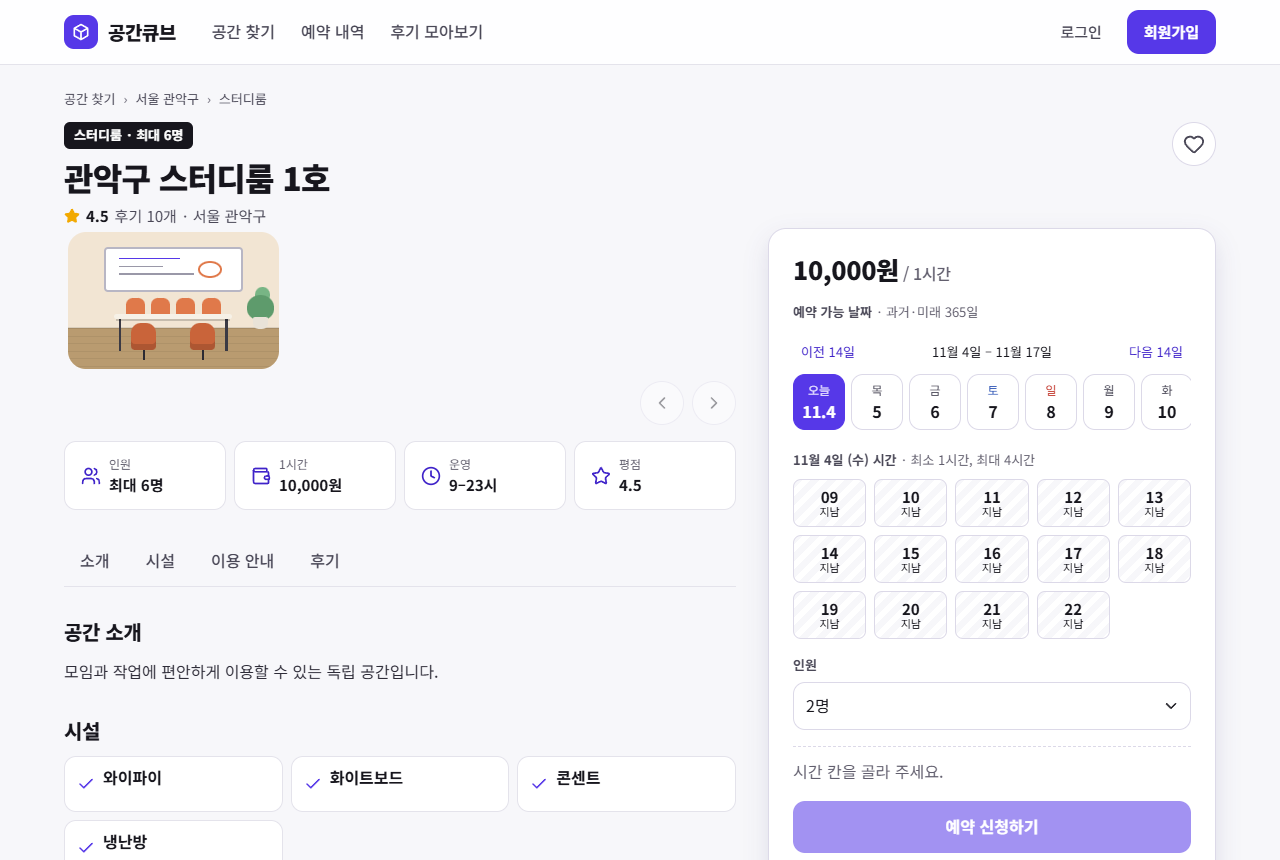
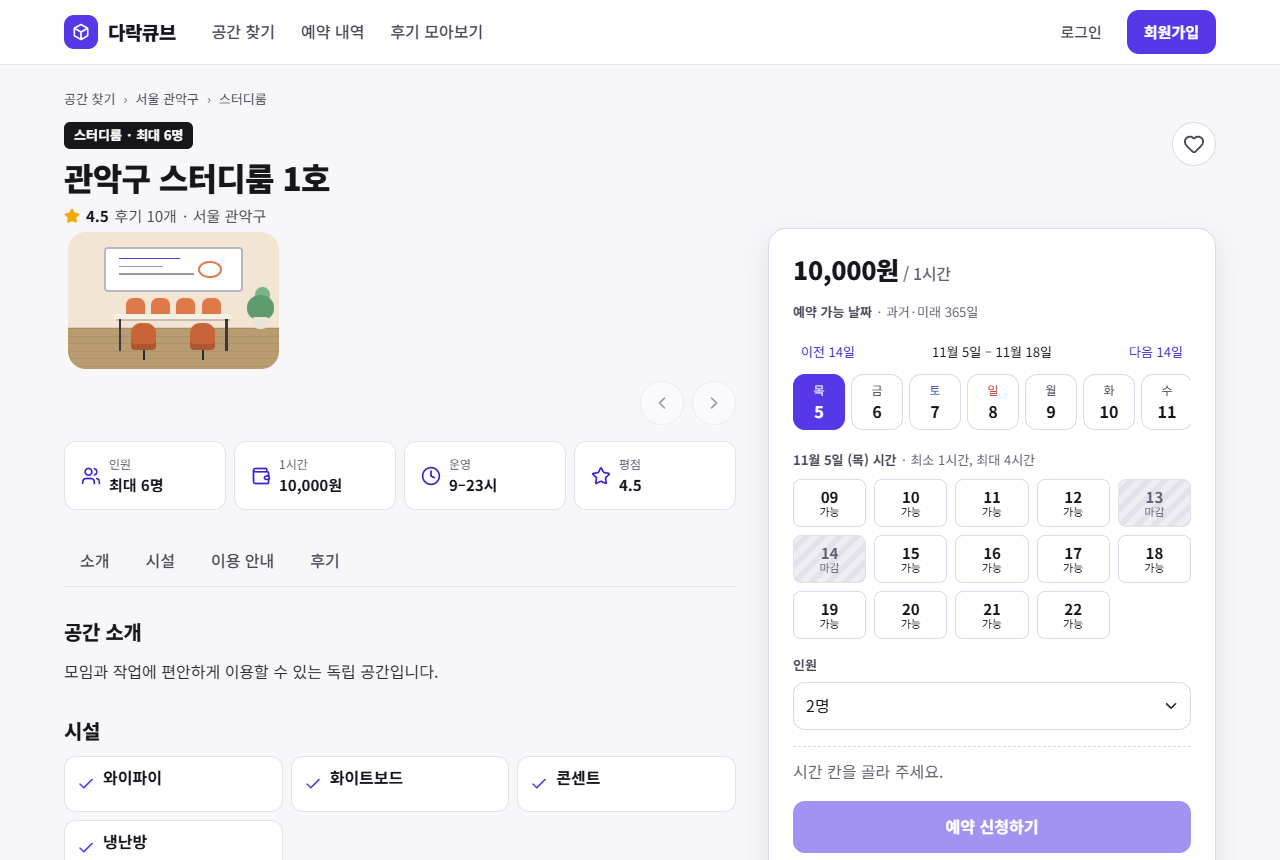
[FE] 이름 다락큐브로 통일, 공통 푸터 시안 반영
- 헤더 로고·로그인 소개·약관·페이지 제목·index.html의 '공간큐브' → '다락큐브'
- 공통 푸터: 디자인 캔버스 SiteFooter 구조(서비스 소개·서비스 바로가기·프로젝트·안내) + [SK네트웍스 Family 엔코아AI캠퍼스] 캠프 표기, 팀 방조, 저장소 링크, 발표 11-09. 색은 tokens.css만 사용
- README 시연 화면 6장 다시 찍음(공간 상세는 내일 날짜)

Refs #9, #22

diff --git a/frontend/src/components/layout/AppFooter.vue b/frontend/src/components/layout/AppFooter.vue
@@ -1,8 +1,56 @@
+<script setup>
+// 공통 푸터 (디자인 캔버스 SiteFooter 시안): 서비스 소개 · 바로가기 · 프로젝트 · 안내 + 캠프 표기
+const links = [
+  { to: '/search', label: '공간 찾기' },
+  { to: '/me', label: '예약 내역' },
+  { to: '/reviews', label: '후기 모아보기' },
+  { to: '/login', label: '로그인 · 회원가입' },
+]
+const REPO = 'https://github.com/encore-ai-campus/mlo-03-p1-team4'
+</script>
+
 <template>
   <footer class="footer">
     <div class="container footer__inner">
-      <p><strong>공간큐브</strong> (가칭) — 전국 공간을 1시간 단위로 예약</p>
-      <p class="footer__muted">화면의 공간·가격·후기는 예시 데이터예요. 결제는 모의 결제로만 동작해요.</p>
+      <div class="footer__cols">
+        <section class="footer__about" aria-label="서비스 소개">
+          <RouterLink to="/" class="footer__logo">
+            <span class="footer__mark" aria-hidden="true">
+              <svg width="18" height="18" viewBox="0 0 24 24" fill="none" stroke="currentColor" stroke-width="2" stroke-linejoin="round"><path d="M12 3l8 4.5v9L12 21l-8-4.5v-9z" /><path d="M12 12l8-4.5M12 12v9M12 12L4 7.5" /></svg>
+            </span>
+            <span class="footer__name">다락큐브</span>
+          </RouterLink>
+          <p>스터디룸 · 스튜디오 · 카페 · 강의실 · 파티룸을 전국에서 찾아 1시간 단위로 예약하는 공간대여 서비스예요.</p>
+        </section>
+
+        <nav class="footer__col" aria-label="서비스 바로가기">
+          <h2>서비스</h2>
+          <RouterLink v-for="l in links" :key="l.to" :to="l.to">{{ l.label }}</RouterLink>
+        </nav>
+
+        <section class="footer__col" aria-label="프로젝트">
+          <h2>프로젝트</h2>
+          <span>팀 방조 · 노진산 · 이자연 · 이세훈 · 전희정</span>
+          <span>역할 프론트·PM 1 · FastAPI 2 · DB 1</span>
+          <span>Vue 3 · FastAPI · MariaDB · MongoDB · AWS</span>
+          <a :href="REPO" target="_blank" rel="noopener noreferrer">GitHub 저장소</a>
+        </section>
+
+        <section class="footer__col" aria-label="안내">
+          <h2>안내</h2>
+          <span>결제는 모의 결제라 실제 돈이 나가지 않아요.</span>
+          <span>공간 정보는 공개 자료를 가공한 예시예요. 업체 실명과 사진은 쓰지 않아요.</span>
+          <span>탈퇴하면 이름 · 연락처 · 생년월일은 바로 지워져요.</span>
+        </section>
+      </div>
+
+      <div class="footer__bottom">
+        <div class="footer__camp">
+          <strong>[SK네트웍스 Family 엔코아AI캠퍼스] AI 레디 데이터 엔지니어링 캠프 3기 1차 프로젝트</strong>
+          <span>© 2026 팀 방조 · 교육용 데모로 실제 예약과 결제는 이루어지지 않아요.</span>
+        </div>
+        <span class="footer__faint">발표 2026-11-09</span>
+      </div>
     </div>
   </footer>
 </template>
@@ -13,18 +61,97 @@
   background: var(--c-ink);
   color: var(--c-on-dark-2);
   font-size: var(--fs-13);
+  line-height: 1.6;
 }
 .footer__inner {
   display: flex;
-  flex-wrap: wrap;
-  justify-content: space-between;
-  gap: var(--sp-8) var(--sp-24);
-  padding-block: var(--sp-32);
+  flex-direction: column;
+  gap: var(--sp-32);
+  padding-block: var(--sp-48) var(--sp-24);
 }
-.footer strong {
+.footer__cols {
+  display: flex;
+  flex-wrap: wrap;
+  gap: var(--sp-32) var(--sp-48);
+}
+.footer__about {
+  flex: 2 1 280px;
+  min-width: 0;
+  display: flex;
+  flex-direction: column;
+  gap: var(--sp-12);
+}
+.footer__about p {
+  margin: 0;
+  max-width: 360px;
+}
+.footer__logo {
+  display: inline-flex;
+  align-items: center;
+  gap: 10px;
+  align-self: flex-start;
+  color: var(--c-on-dark);
+  text-decoration: none;
+}
+.footer__mark {
+  width: 32px;
+  height: 32px;
+  border-radius: 9px;
+  background: var(--c-brand);
+  display: grid;
+  place-items: center;
+}
+.footer__name {
+  font-weight: 900;
+  font-size: 1.125rem;
+  letter-spacing: -0.02em;
+}
+.footer__col {
+  flex: 1.4 1 200px;
+  min-width: 0;
+  display: flex;
+  flex-direction: column;
+  gap: 6px;
+}
+.footer__col:first-of-type {
+  flex: 1 1 140px;
+}
+.footer__col h2 {
+  margin: 0 0 var(--sp-4);
+  font-size: var(--fs-13);
+  font-weight: 700;
   color: var(--c-on-dark);
 }
-.footer__muted {
+.footer__col a {
+  align-self: flex-start;
+  color: var(--c-on-dark-2);
+  text-decoration: none;
+  transition: color var(--t-fast) var(--ease-out);
+}
+.footer__col a:hover {
+  color: var(--c-on-dark);
+  text-decoration: underline;
+}
+.footer__bottom {
+  border-top: 1px solid var(--c-dark-line);
+  padding-top: var(--sp-16);
+  display: flex;
+  flex-wrap: wrap;
+  justify-content: space-between;
+  align-items: flex-end;
+  gap: var(--sp-12) var(--sp-24);
+}
+.footer__camp {
+  display: flex;
+  flex-direction: column;
+  gap: var(--sp-4);
+}
+.footer__camp strong {
+  color: var(--c-on-dark);
+  font-weight: 700;
+}
+.footer__camp span,
+.footer__faint {
   color: var(--c-on-dark-3);
 }
 </style>

diff --git a/frontend/src/pages/AuthPage.vue b/frontend/src/pages/AuthPage.vue
@@ -104,8 +104,8 @@ const genderOptions = [
   { value: '4', label: '2000년대 출생 · 여성' },
 ]
 const termItems = [
-  { value: 'service', title: '시연용 이용약관 전문 보기', body: '이 약관은 공간큐브 프로젝트의 모의 예약 서비스에 적용됩니다. 실제 결제나 공간 이용 계약은 발생하지 않습니다. 만 14세 이상만 가입할 수 있습니다. 공간은 1시간 단위로 최소 이용시간부터 최대 4시간까지 예약합니다. 결제 버튼을 누르면 모의 결제와 예약을 함께 처리하며 먼저 결제를 마친 예약이 확정됩니다. 이용 시작 전까지 예약을 취소할 수 있고 모의 결제 금액은 전액 환불 처리됩니다. 지난 시간의 예약은 이용 완료로 저장됩니다. 후기는 이용 완료한 본인 예약에 한 번, 이용일과 예약한 날 중 늦은 날부터 7일 안에 작성할 수 있습니다. 탈퇴 시 개인정보는 즉시 지워지고 예약·결제·후기는 회원 번호로 남습니다. 이 내용은 프로젝트 시연용 안내이며 실제 서비스 운영 약관은 별도로 확정해야 합니다.' },
-  { value: 'privacy', title: '시연용 개인정보 수집·이용 전문 보기', body: '이 내용은 공간큐브 프로젝트의 모의 서비스에 대한 동의 안내입니다. 회원 식별·로그인과 예약 확인을 위해 이름, 이메일, 비밀번호, 휴대폰 번호를 받고, 생년월일 6자리와 성별 구분 숫자 1자리는 만 14세 이상 가입 자격 확인에 사용합니다. 주민등록번호 전체는 수집하지 않습니다. 필수 항목의 수집·이용 동의를 거부할 수 있으나 회원가입은 할 수 없습니다. 탈퇴하면 이름·연락처·생년월일·이메일 등 개인정보를 즉시 지우고 비밀번호를 무작위 값으로 대체합니다. 예약·결제·후기는 회원 번호로 남으며 공개 후기 작성자는 ‘탈퇴한 회원’으로 표시됩니다. 선택한 새 공간 소식 수신 동의는 거절해도 가입·예약에 영향이 없습니다. 실제 서비스의 운영자·문의처·처리방침은 서비스 운영 전 별도로 확정해야 합니다.' },
+  { value: 'service', title: '시연용 이용약관 전문 보기', body: '이 약관은 다락큐브 프로젝트의 모의 예약 서비스에 적용됩니다. 실제 결제나 공간 이용 계약은 발생하지 않습니다. 만 14세 이상만 가입할 수 있습니다. 공간은 1시간 단위로 최소 이용시간부터 최대 4시간까지 예약합니다. 결제 버튼을 누르면 모의 결제와 예약을 함께 처리하며 먼저 결제를 마친 예약이 확정됩니다. 이용 시작 전까지 예약을 취소할 수 있고 모의 결제 금액은 전액 환불 처리됩니다. 지난 시간의 예약은 이용 완료로 저장됩니다. 후기는 이용 완료한 본인 예약에 한 번, 이용일과 예약한 날 중 늦은 날부터 7일 안에 작성할 수 있습니다. 탈퇴 시 개인정보는 즉시 지워지고 예약·결제·후기는 회원 번호로 남습니다. 이 내용은 프로젝트 시연용 안내이며 실제 서비스 운영 약관은 별도로 확정해야 합니다.' },
+  { value: 'privacy', title: '시연용 개인정보 수집·이용 전문 보기', body: '이 내용은 다락큐브 프로젝트의 모의 서비스에 대한 동의 안내입니다. 회원 식별·로그인과 예약 확인을 위해 이름, 이메일, 비밀번호, 휴대폰 번호를 받고, 생년월일 6자리와 성별 구분 숫자 1자리는 만 14세 이상 가입 자격 확인에 사용합니다. 주민등록번호 전체는 수집하지 않습니다. 필수 항목의 수집·이용 동의를 거부할 수 있으나 회원가입은 할 수 없습니다. 탈퇴하면 이름·연락처·생년월일·이메일 등 개인정보를 즉시 지우고 비밀번호를 무작위 값으로 대체합니다. 예약·결제·후기는 회원 번호로 남으며 공개 후기 작성자는 ‘탈퇴한 회원’으로 표시됩니다. 선택한 새 공간 소식 수신 동의는 거절해도 가입·예약에 영향이 없습니다. 실제 서비스의 운영자·문의처·처리방침은 서비스 운영 전 별도로 확정해야 합니다.' },
 ]
 
 async function verifyEmail() {
@@ -169,7 +169,7 @@ async function submitSignup() {
   <div class="container page">
     <SplitLayout ratio="1fr 1fr">
       <template #start>
-        <section class="brand" aria-label="공간큐브 소개">
+        <section class="brand" aria-label="다락큐브 소개">
           <div class="brand__art"><RoomArt kind="group" :tone="1" /></div>
           <h1 class="brand__title">필요한 시간만큼만,<br />딱 맞는 공간을</h1>
           <ul class="brand__list">

diff --git a/frontend/src/router/index.js b/frontend/src/router/index.js
@@ -4,7 +4,7 @@ import { useAuthStore } from '@/stores/auth'
 import { setUnauthorizedHandler } from '@/api/client'
 
 const routes = [
-  { path: '/', name: 'main', component: MainPage, meta: { title: '공간큐브' } },
+  { path: '/', name: 'main', component: MainPage, meta: { title: '다락큐브' } },
   { path: '/search', name: 'search', component: () => import('@/pages/SearchPage.vue'), meta: { title: '빈 시간 찾기' } },
   { path: '/rooms/:roomId', redirect: (to) => ({ name: 'venue', params: { venueId: to.params.roomId }, query: to.query }) },
   { path: '/venues/:venueId', name: 'venue', component: () => import('@/pages/RoomPage.vue'), meta: { title: '공간 상세' } },
@@ -37,7 +37,7 @@ router.beforeEach((to) => {
 })
 
 router.afterEach((to) => {
-  document.title = to.meta.title === '공간큐브' ? '공간큐브 · 1시간 단위 공간 예약' : `${to.meta.title} · 공간큐브`
+  document.title = to.meta.title === '다락큐브' ? '다락큐브 · 1시간 단위 공간 예약' : `${to.meta.title} · 다락큐브`
 })
 
 setUnauthorizedHandler(() => {

diff --git a/frontend/src/components/layout/AppHeader.vue b/frontend/src/components/layout/AppHeader.vue
@@ -36,11 +36,11 @@ const userMenu = [
 <template>
   <header class="header" :class="{ 'is-compact': compact }">
     <div class="container header__inner">
-      <RouterLink to="/" class="logo" aria-label="공간큐브 홈">
+      <RouterLink to="/" class="logo" aria-label="다락큐브 홈">
         <span class="logo__mark" aria-hidden="true">
           <svg width="20" height="20" viewBox="0 0 24 24" fill="none" stroke="currentColor" stroke-width="2" stroke-linejoin="round"><path d="M12 3l8 4.5v9L12 21l-8-4.5v-9z" /><path d="M12 12l8-4.5M12 12v9M12 12L4 7.5" /></svg>
         </span>
-        <span class="logo__name">공간큐브</span>
+        <span class="logo__name">다락큐브</span>
       </RouterLink>
 
       <nav class="nav" aria-label="주 메뉴">

diff --git a/frontend/index.html b/frontend/index.html
@@ -4,9 +4,9 @@
     <meta charset="UTF-8" />
     <meta name="viewport" content="width=device-width, initial-scale=1.0" />
     <meta name="theme-color" content="#ffffff" />
-    <meta name="description" content="스터디룸·스튜디오·카페·강의실·파티룸을 1시간 단위로 예약하는 공간큐브" />
+    <meta name="description" content="스터디룸·스튜디오·카페·강의실·파티룸을 1시간 단위로 예약하는 다락큐브" />
     <link rel="preload" href="/fonts/noto-sans-kr/NotoSansKR-Variable.subset.woff2" as="font" type="font/woff2" crossorigin />
-    <title>공간큐브 · 1시간 단위 공간 예약</title>
+    <title>다락큐브 · 1시간 단위 공간 예약</title>
   </head>
   <body>
     <div id="app"></div>

diff --git a/STATE.md b/STATE.md
@@ -138,6 +138,7 @@ A1~A4는 11-03에 확정했고, **A5~A8은 추후 확정**으로 미뤘다(11-03
 
 ## 최근 변경 (최신이 위)
 
+- 11-04 · FE · 화면 이름을 다락큐브로 통일(헤더·푸터·로그인·약관·페이지 제목·`index.html`), 공통 푸터를 디자인 캔버스 SiteFooter 시안대로 바꿈(서비스 소개·바로가기·프로젝트·안내 + 캠프 표기, 발표 11-09). `npm run verify`·E2E 59개 통과, README 시연 화면 6장 다시 찍음
 - 11-04 · 공동 · GitHub Project 보드 [팀 방조 · 다락큐브 1차](https://github.com/orgs/encore-ai-campus/projects/5) 만듦: 상태 5개(할 일·하는 중·리뷰·막힘·끝), 파트 필드, 보기 4개(전체 표·보드·내 일·목 11-05 통합), 이슈 23개 넣음. 이슈 템플릿이 보드에 자동으로 넣게 함. 사용법: CONTRIBUTING 1절
 - 11-04 · 공동 · CI 확장(`.github/workflows/ci.yml`): 바뀐 폴더별로 프론트 verify·E2E, DB·백엔드 테스트(compose MariaDB·MongoDB로 seed 확인·`check_ddl.py`·`check_mongo_init.js`·pytest) + 결과를 모으는 `CI 결과` job. 루트 `pytest.ini` 추가, `check_ddl.py`는 `CHECK_DB_URL`이 있으면 `.env`를 읽지 않게 함. 설명: CONTRIBUTING 4-1절
 - 11-04 · 공동 · 시스템 아키텍처 그림을 1차 구성(C안: EC2 3대 + RDS, MongoDB는 정문 EC2, Grafana Cloud) 아이콘 그림으로 새로 그림(`docs/figures/architecture.png`). 11-03 그림은 확장안(`architecture_expanded.png`)으로 이름을 바꿔 남김. README 3장의 mermaid를 이 그림으로 바꿈
